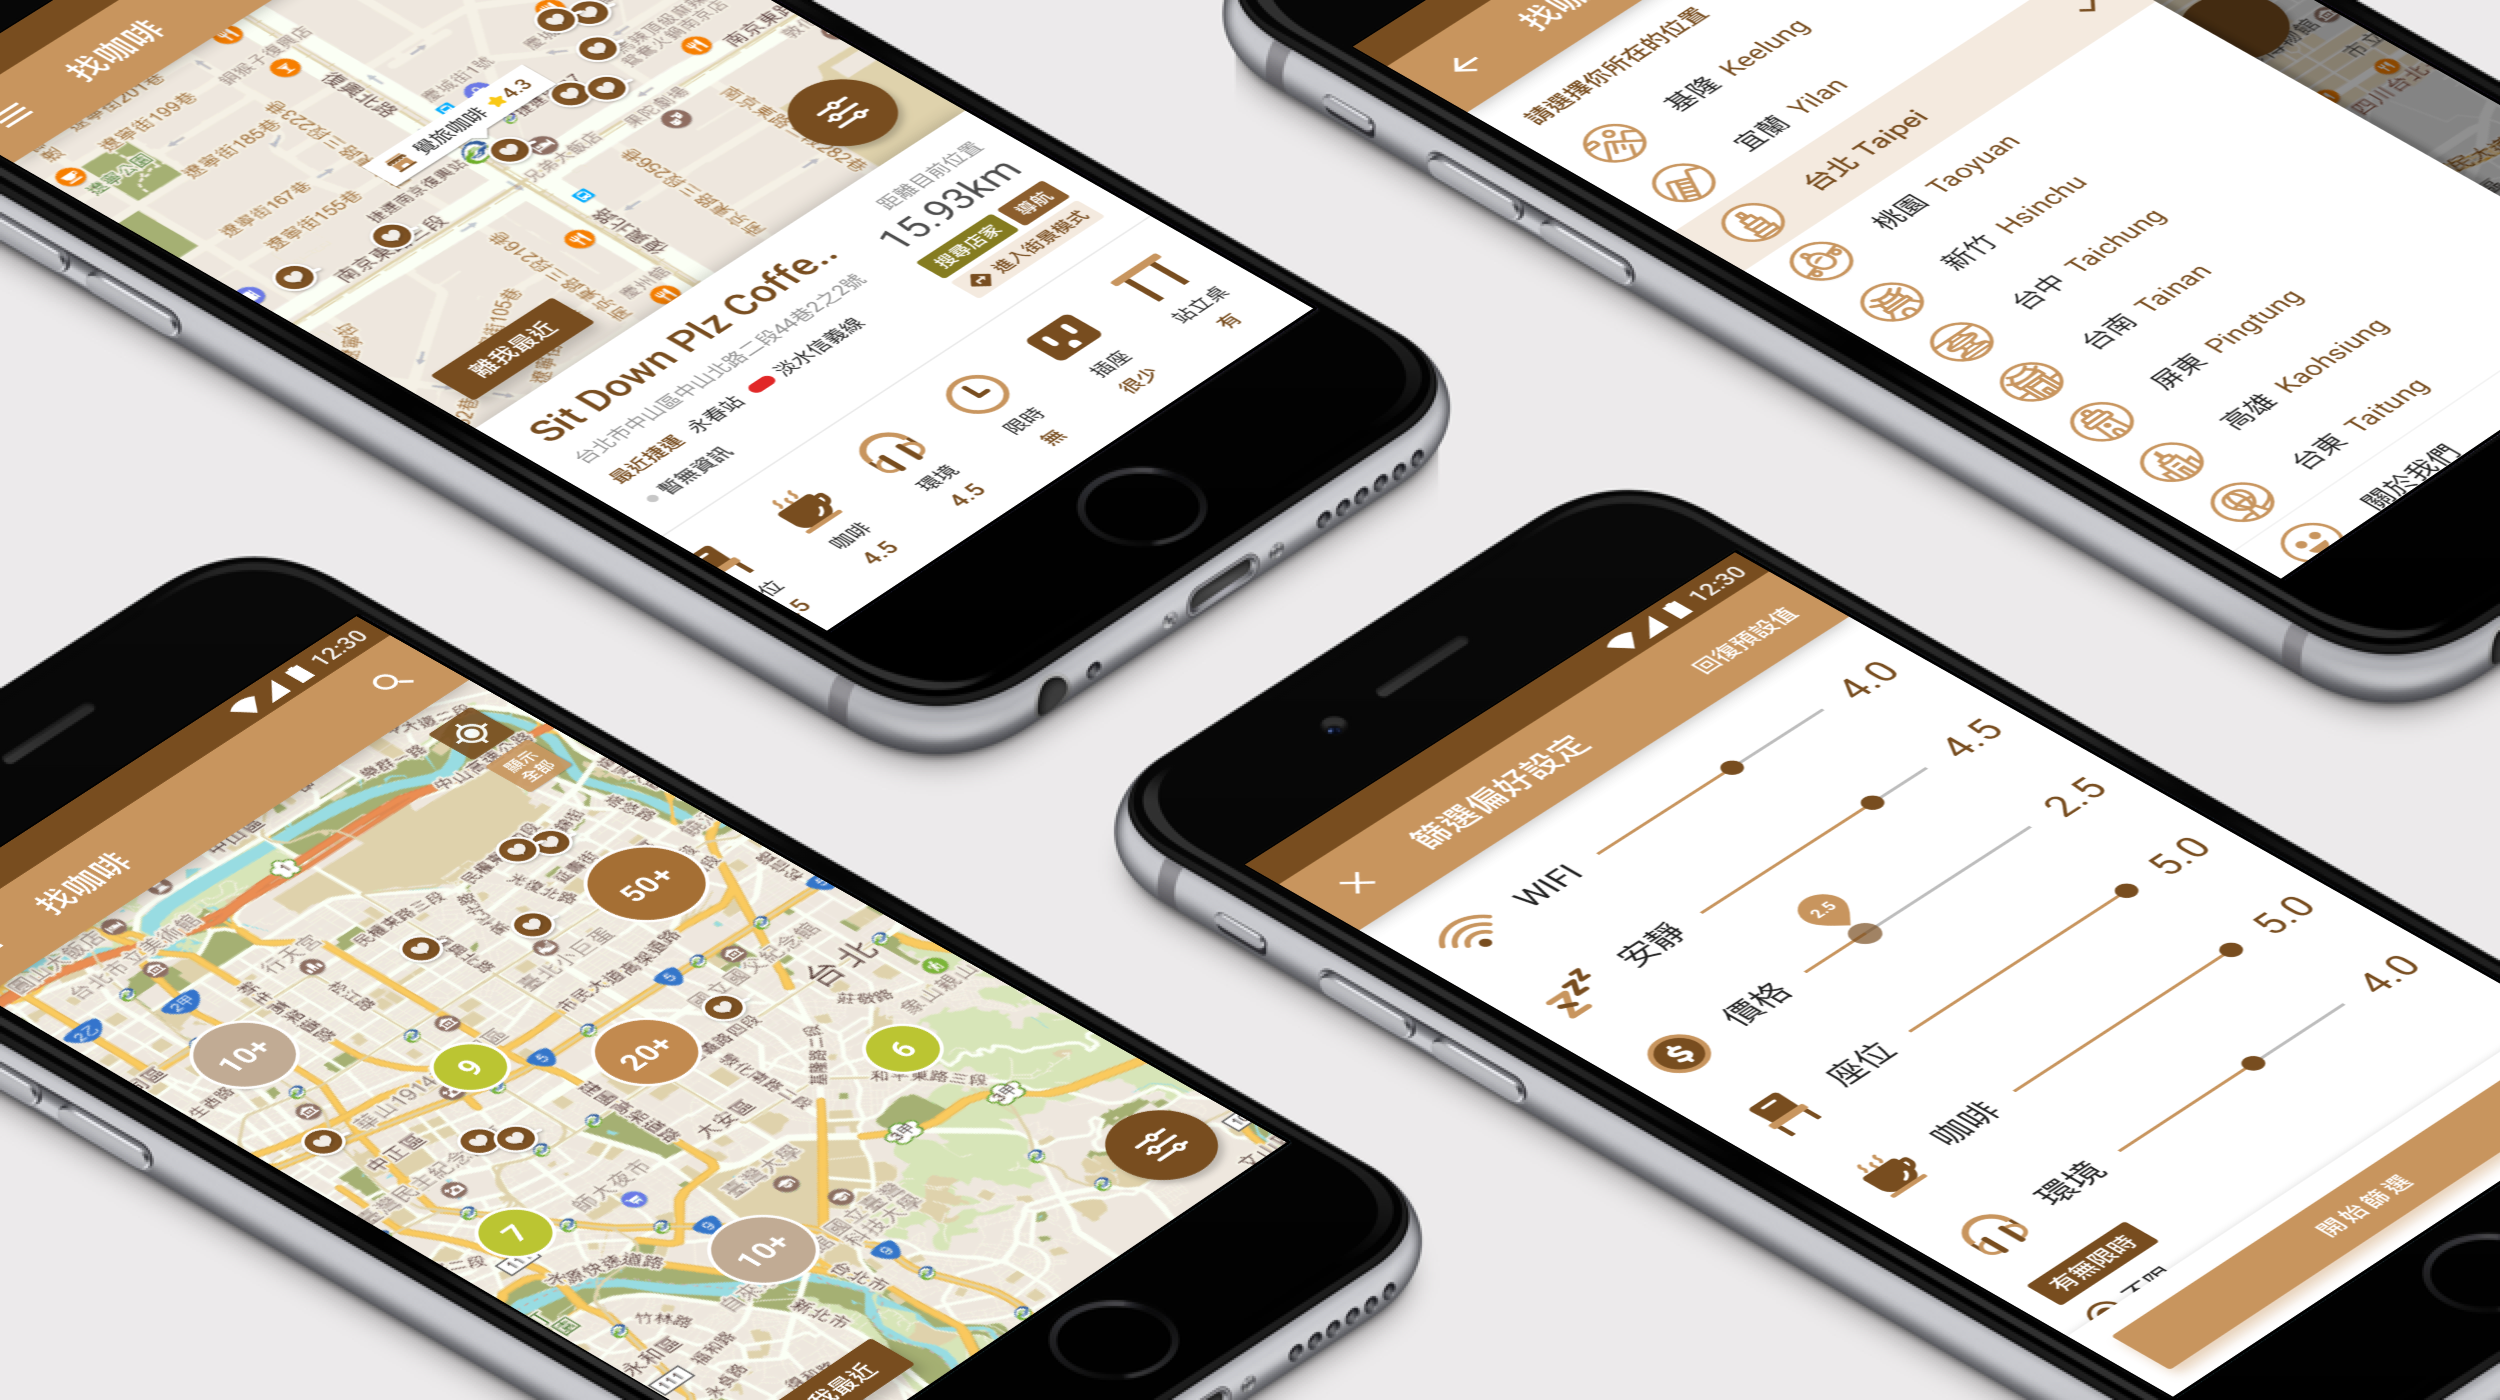
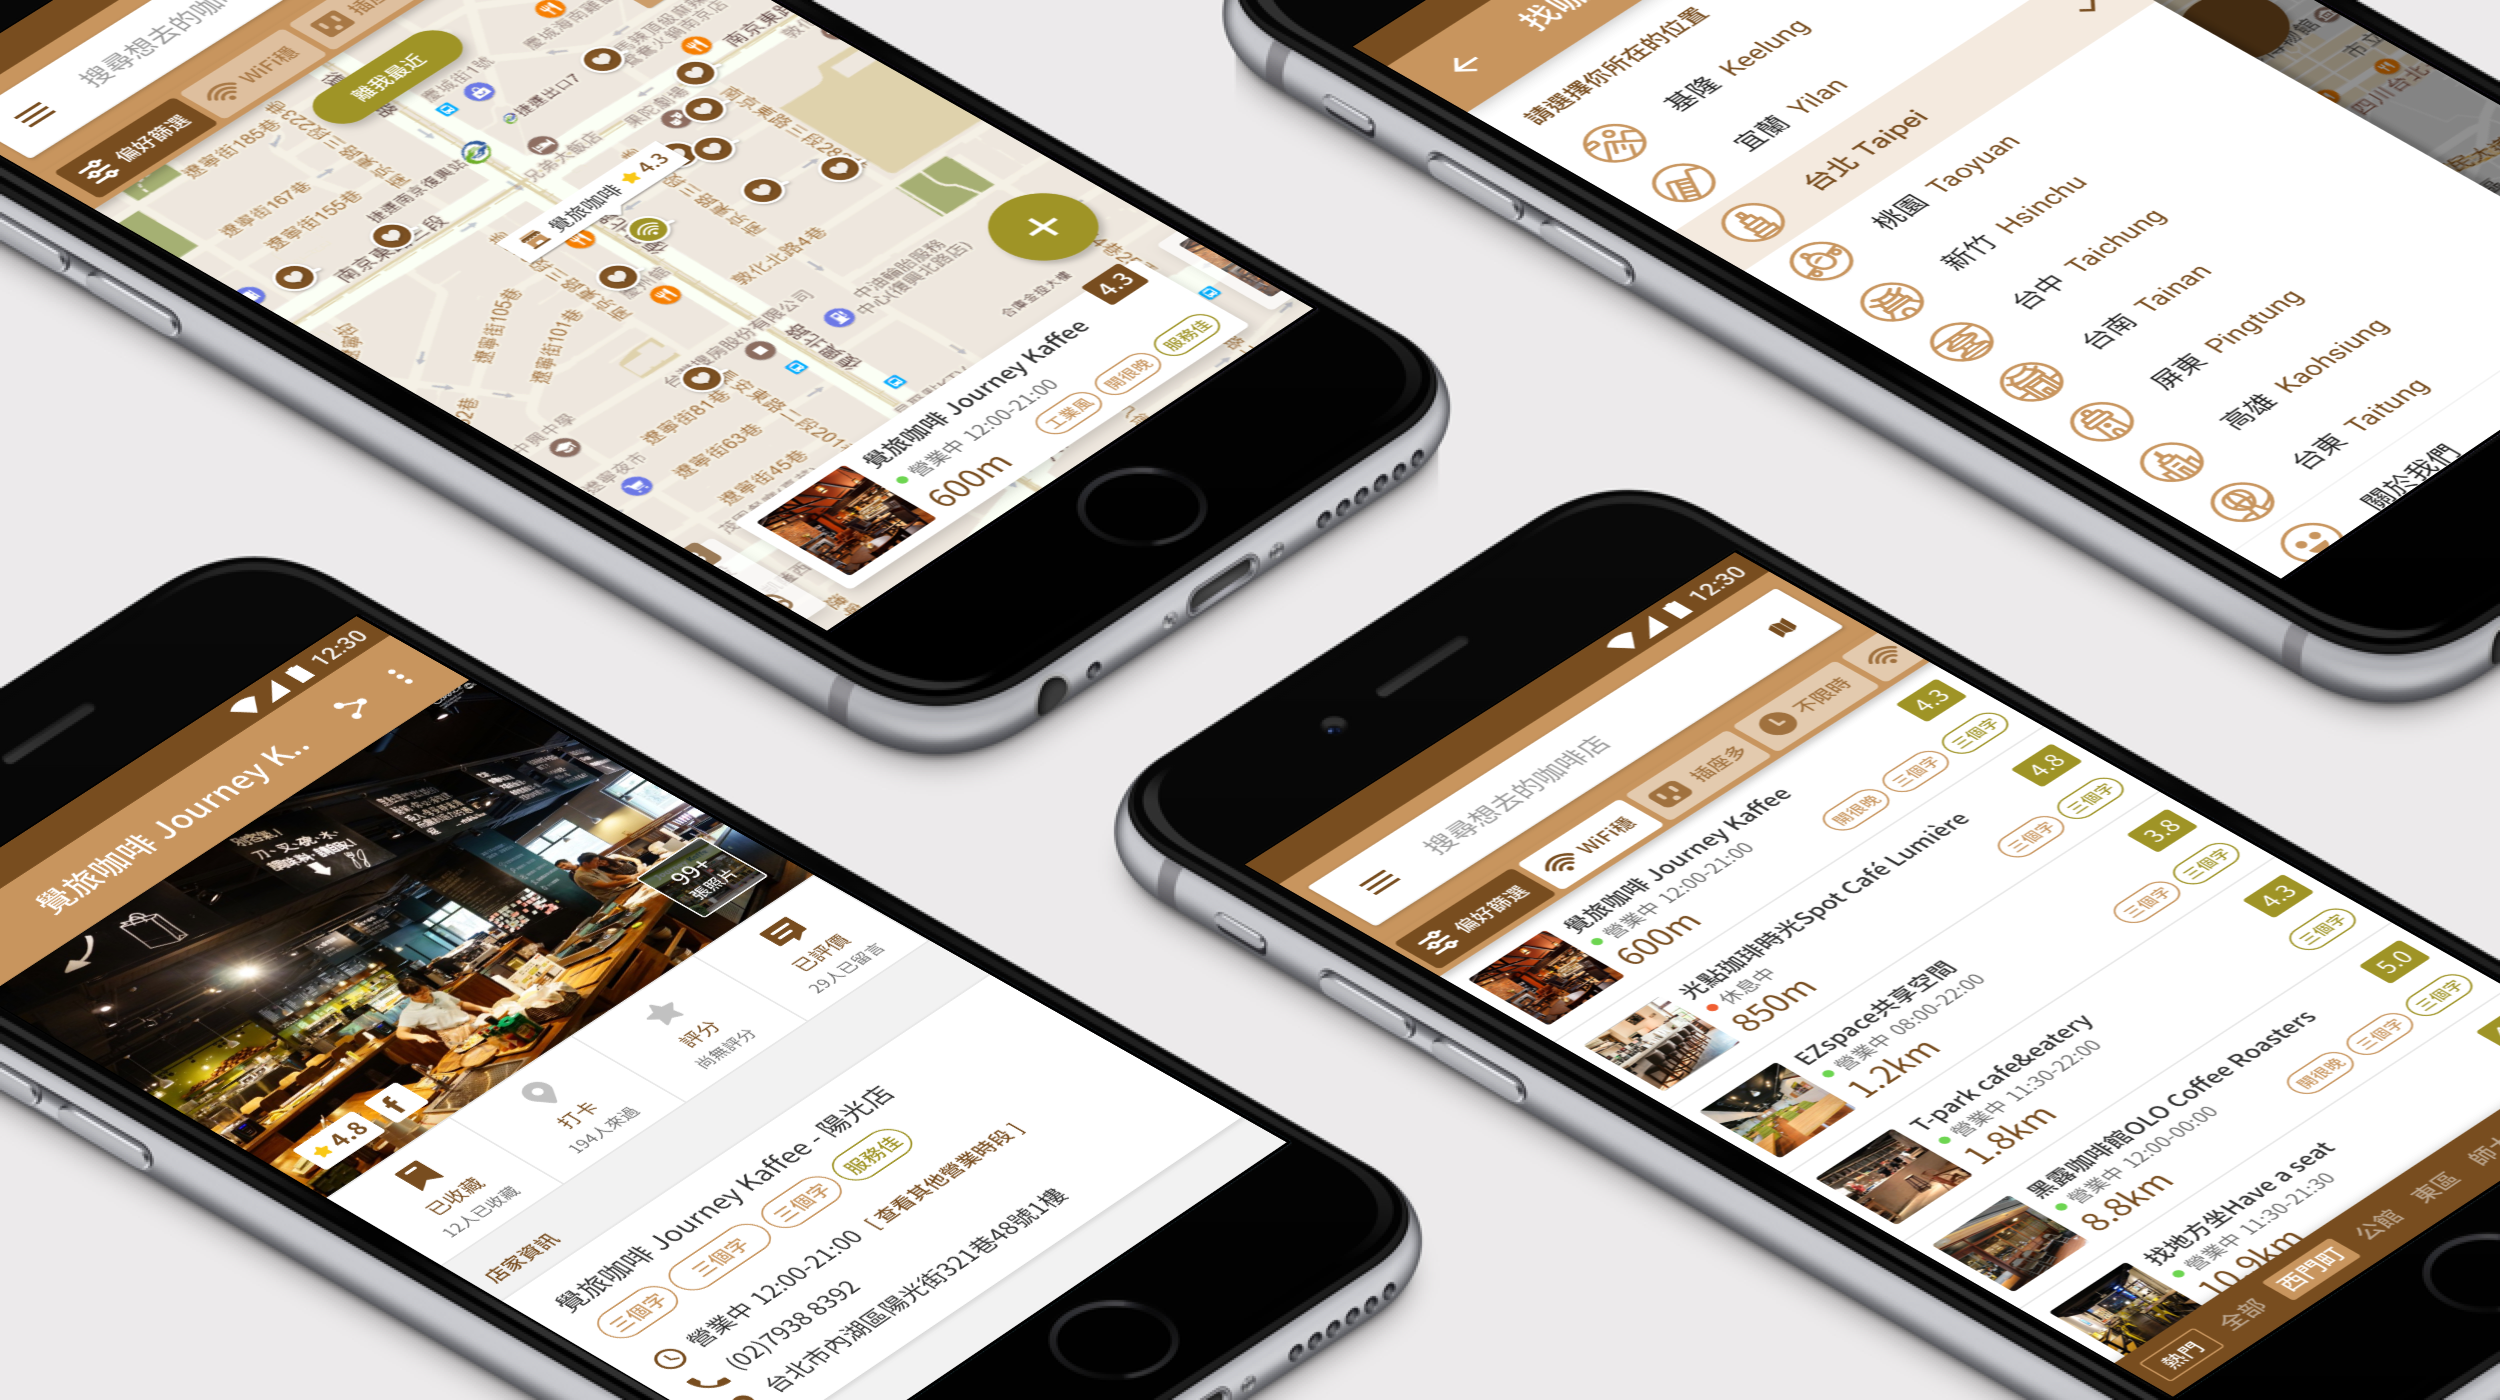
0318 修改

diff --git a/kapi.html b/kapi.html
@@ -99,7 +99,7 @@ Fast & Easy.</h2>
 
           <div>
             <h4>Roles</h4>
-            <p class="body-text">User Interface, <br>Information Architecture, <br>Visual design, <br>IUser Experience.</p>
+            <p class="body-text">User Interface, <br>Information Architecture, <br>Visual design, <br>User Experience.</p>
           </div>
         </div>
       </div>
@@ -140,26 +140,33 @@ Fast & Easy.</h2>
         <div class="col-md-12">
           <h3 class="title-24 text-center survey-wrap">User Survey</h3>
 
-          <p class="body-text text-center mt8 mb48 survey-wrap">Before the project started, we made simple questionnaires and interviews with potential users to understand their basic needs for cafe. We conducted a survey of 268 people, and then we found out something, and the results showed the following:</p>
+          <p class="body-text text-center mt8 mb48 survey-wrap">Before the project started, we made simple questionnaires and interviews with potential users to understand their basic needs for cafe. We conducted a survey of <span class="strong-body">268 people</span>, and then we found out something, and the results showed the following:</p>
         </div>
 
         <div class="col-md-4 text-center">
+          <div class="survey-hover">
           <div class="icon-survey"><img src="img/icons/webd.svg" alt="icon" width="100%"></div>
           <p class="number-percent">38%</p>
           <p class="body-text">Go to cafe for <br>doing thier work</p>
+          </div>
         </div>
 
         <div class="col-md-4 text-center">
+          <div class="survey-hover">
           <div class="icon-survey"><img src="img/icons/webd.svg" alt="icon" width="100%"></div>
           <p class="number-percent">46%</p>
           <p class="body-text">Go to the cafe <br>every week</p>
         </div>
+        </div>
 
         <div class="col-md-4 text-center">
+          <div class="survey-hover">
           <div class="icon-survey"><img src="img/icons/webd.svg" alt="icon" width="100%"></div>
           <p class="number-percent">82%</p>
           <p class="body-text">Concerned about wifi <br>speed of the cafe</p>
         </div>
+      </div>
+
       </div>
     </div>
   </section>
@@ -259,7 +266,7 @@ Fast & Easy.</h2>
         <p class="subtitle-coffee">Use the keyword search to find the cafeto and see the informations</p>
       </div>
 
-      
+
 </div>
 
 
@@ -290,8 +297,7 @@ Fast & Easy.</h2>
         <div class="row ">
           <div class="col-md-12">
             <h3 class="title-24 font-bold">Information Arcitecture</h3>
-            <p class="body-text max800">It's a mobile application called “cafe finder” which is small but quite useful app in our daily life. It helps people to find the Cafe which is appropriate for them. This app provide different ways such as preference filter or key word searching
-              that allows you really easy to find a good Cafe.</p>
+            <p class="body-text max800">Before we conduct visual design and arrange layout, we need to list all functions of product and number them, also name and plan into a complete information architecture with the spec documents for use, it can be help the whole team to understand the structure of the product quickly, and the basic path between pages in the app.</p>
 
             <div class="flow-img"><img src="./img/user-flow.png" alt="process" width="100%;"></div>
           </div>
@@ -336,9 +342,9 @@ Fast & Easy.</h2>
         <div class="row">
           <div class="col-md-12">
             <h3 class="title-24 font-bold text-center">Initiatory Version</h3>
-            <h4 class="text-center">Minimum Viable Product</h4>
+            <h4 class="subtitle-16 text-center">Minimum Viable Product</h4>
             <p class="body-text max800">We want to release a version to the users to use as soon as possible(of course, all of our team members are target audience as well), and based on this version to collect more informations and data. So I and engineers spent around 2 weeks to let this MVP launched, all follow our wireframes and information architecture, so the rapid made of a few pages, including our core features like map browsing, keyword search, preference filter.</p>
-              <div class="wireframe-img"><img src="./img/man_student.jpg" alt="process" width="100%;"></div>
+              <div class="mvp-img"><img src="./img/Footage/MVP_demo.png" alt="process" width="100%;"></div>
           </div>
         </div>
       </div>
@@ -388,19 +394,19 @@ next iteration will be</h2>
         <div class="col-md-4">
           <h4 class="title-20">More useful features</h4>
           <p class="body-text">We've added more useful features, which make users can get more information in the product and more opportunities to explore, we support more cities, and you can also add the new cafe in the app, when you are searching can be more easy to select the popular areas, more accurate filter, customer service channel that users can give us the suggest in anytime.</p>
-          <div><img src="./img/man_student.jpg" alt="1" width="100%;"></div>
+          <div><img src="./img/Footage/Feature_1.png" alt="1" width="100%;"></div>
         </div>
 
         <div class="col-md-4">
           <h4 class="title-20">Better user experience</h4>
           <p class="body-text">Not only use the map browsing, but also offer a second option: list view, the use of more flexibility, and we also reinforce the information, provide the more detail of cafe informations, photos, users rating, you can really free walking through in the app .</p>
-          <div><img src="./img/man_student.jpg" alt="1" width="100%;"></div>
+          <div><img src="./img/Footage/Feature_2.png" alt="1" width="100%;"></div>
         </div>
 
         <div class="col-md-4">
           <h4 class="title-20">More like a cafe community</h4>
           <p class="body-text">We hope that a lot of people conversation in this product, so we conected the facebook login function, and you can collect your favorite cafe, recording cafe that you have, and even to rate the cafe, leave you commen, and you can know how other users think about this cafe, we expect this product gradually become a big community for the cafe lovers.</p>
-        <div><img src="./img/man_student.jpg" alt="1" width="100%;"></div>
+        <div><img src="./img/Footage/Feature_3.png" alt="1" width="100%;"></div>
         </div>
       </div>
     </div>
@@ -480,7 +486,7 @@ next iteration will be</h2>
       <div class="row text-center">
         <div class="col-md-12">
           <h3 class="title-24">What I learn from this project?</h3>
-          <h3 class="subtitle-16">Creat Value, Accurate Design, Teamwork</h3>
+          <h3 class="subtitle-16">Value First, Accurate Design, Teamwork</h3>
           <p class="body-text">In the execution of this product from the concept to the reality, I learned 3 important things following: create value, accurate design execution and teamwork, the first one is to create value: I want to creat a meaningful design, to help people change their life, so I give the priority of the value from the users to think about my design. The second point is the precise design, the design must have a logical and behind the reasons, your design can be touched through the users, the third is cooperated with team members, continuous communication and try to help the whole team move forward. Finally, when the product launched, I walk on the street, turn on my phone, using the app that we created, the feeling is very good because I'm really solve some problems by design andhelp my my life really different.</p>
         </div>
       </div>

diff --git a/css/kapi.css b/css/kapi.css
@@ -36,6 +36,10 @@ h2{
   margin-bottom: 0;
 }
 
+.strong-body{
+  font-weight: bold;
+  color: var(--main-coffee);
+}
 .bg-white-border {
   background: white;
   box-shadow: inset 0 -1px 0 0 #E6E6E6, inset 0 1px 0 0 #E6E6E6;
@@ -205,6 +209,7 @@ h2{
 }
 
 .title-24 {
+  color: var(--main-coffee);
   padding-bottom: 4px;
   font-size: 24px;
   line-height: 24px;
@@ -265,6 +270,19 @@ h2{
   margin-right: auto;
   max-width: 880px;
 }
+
+.survey-hover{
+  padding: 12px;
+  border-radius: 5px;
+  transition: all 0.3s;
+  border: 1px solid rgba(0, 0, 0, 0);
+}
+
+.survey-hover:hover{
+  background-color: #F8F8F8;
+  border: 1px solid rgba(0, 0, 0, 0.2);
+}
+
 .number-percent {
   font-weight: 100;
   font-size: 48px;
@@ -444,13 +462,17 @@ h2{
 .wireframe-img{
   padding-left: 4px;
   padding-right: 4px;
-  margin-top: 6px;
+  margin-top: 8px;
 }
 
 /*mvp*/
 .mvp{
   background-color: rgba(120,77,31,0.06);
 box-shadow: inset 0 -1px 0 0 #E6E6E6, inset 0 1px 0 0 #E6E6E6;
+}
+
+.mvp-img{
+  margin-top: 64px;
 }
 
 .p0{
@@ -514,6 +536,8 @@ z-index: 4;
 /*refine*/
 .refine-design img{
   border-radius: 3px;
+  border: 1px solid rgba(0, 0, 0, 0.10);
+  margin-top: 16px;
 }
 
 /*design-system*/

diff --git a/css/main.css b/css/main.css
@@ -3492,7 +3492,7 @@ Resume Elements
 
 .icon-box {
   padding-bottom: 20px;
-  padding-top: 25px; 
+  padding-top: 25px;
   transition: all 0.3s;
   /*display: -webkit-box;
   display: -webkit-flex;
@@ -3658,6 +3658,7 @@ Resume Elements
 
 .gallery-item img{
   transition: all 0.5s;
+  border-radius: 6px;
 }
 
 
